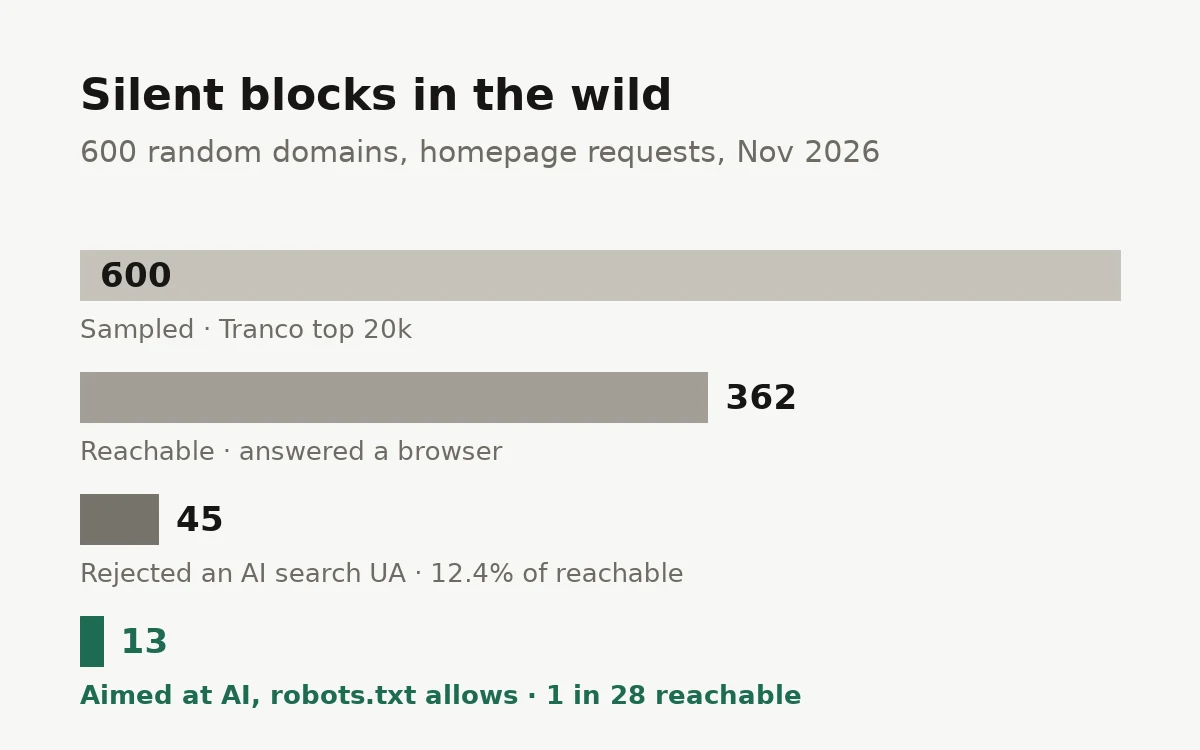
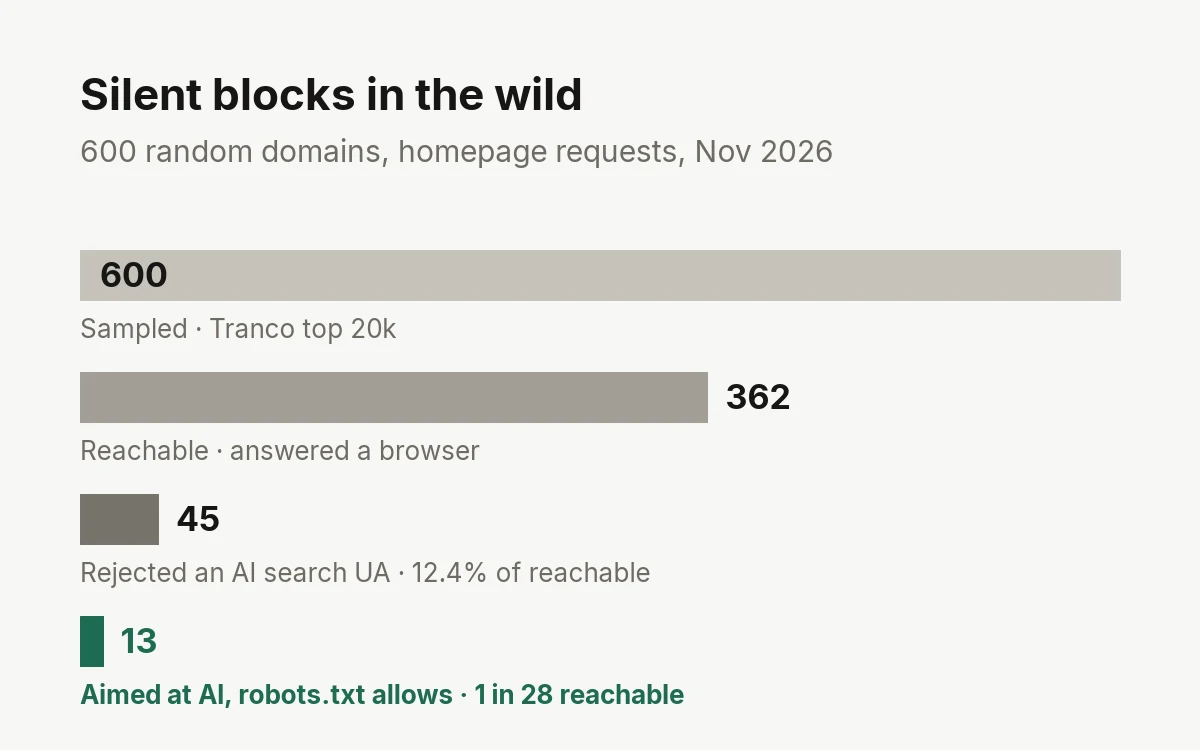
figs + report art: Inter / JetBrains Mono instead of DejaVu

diff --git a/scripts/report-art/render.py b/scripts/report-art/render.py
@@ -18,8 +18,8 @@ def panel():
     chips = "".join(f"<span class='{'ok' if v else 'no'}'><i></i>{n}</span>" for n, v in ctrl)
     return f"<div class='pn'><p class='ph mono'><span>AGENT</span><span>ROBOTS.TXT</span><span>HTTP</span></p><table>{rows}</table><p class='cg mono'>CONTROLS</p><div class='chips'>{chips}</div></div>"
 CSS = """*{box-sizing:border-box;margin:0;padding:0}
-body{background:#fbfbf9;color:#171614;font-family:'DejaVu Sans',sans-serif;-webkit-font-smoothing:antialiased}
-.mono{font-family:'DejaVu Sans Mono',monospace}.serif{font-family:'C059',serif}
+body{background:#fbfbf9;color:#171614;font-family:'Inter',sans-serif;-webkit-font-smoothing:antialiased}
+.mono{font-family:'JetBrains Mono',monospace}.serif{font-family:'C059',serif}
 .g{color:#1f8a4c}.mut{color:#6f6b64}
 .top{display:flex;justify-content:space-between;align-items:flex-end;padding-bottom:22px;border-bottom:1px solid #d9d7d1}
 .top svg{height:22px;width:auto}
@@ -31,10 +31,10 @@ body{{width:724px;height:543px;padding:46px 60px 40px}}
 .mid .l{{flex:1}}
 h1{{font-weight:400;font-size:30px;line-height:1.08;letter-spacing:.005em;text-transform:uppercase}}
 .site{{font-size:13px;letter-spacing:.08em;margin:14px 0 22px}}
-.by{{font-style:italic;font-size:12.5px;line-height:1.75;font-family:'DejaVu Sans'}}
+.by{{font-style:italic;font-size:12.5px;line-height:1.75;font-family:'Inter'}}
 .pn{{width:300px;border:1px solid #d9d7d1;background:#fff;padding:12px 14px 12px;font-size:11px}}
 .ph{{display:grid;grid-template-columns:1fr 70px 34px;font-size:8.5px;letter-spacing:.1em;color:#8a867e;padding-bottom:6px;border-bottom:1px solid #e4e2dc}}.ph span:last-child{{text-align:right}}
-.pn table{{width:100%;border-collapse:collapse}}.pn td{{padding:4.6px 0;border-bottom:1px solid #f0eee9;font-family:'DejaVu Sans Mono';font-size:10.5px}}
+.pn table{{width:100%;border-collapse:collapse}}.pn td{{padding:4.6px 0;border-bottom:1px solid #f0eee9;font-family:'JetBrains Mono';font-size:10.5px}}
 .pn td.r{{width:70px;color:#8a867e;font-size:9.5px}}.pn td.s{{width:34px;text-align:right;font-weight:700}}
 .ok{{color:#1f8a4c}}.no{{color:#b23b2e}}
 .cg{{font-size:8.5px;letter-spacing:.1em;color:#8a867e;margin:9px 0 6px}}
@@ -43,7 +43,7 @@ h1{{font-weight:400;font-size:30px;line-height:1.08;letter-spacing:.005em;text-t
 .c{{font-size:11px;letter-spacing:.12em;margin:4px 0 12px}}
 .toc{{display:grid;grid-template-columns:repeat(4,1fr);border-top:1px solid #d9d7d1;padding-top:14px}}
 .toc div{{padding:0 0 0 16px;border-left:1px solid #d9d7d1;font-size:13px}}.toc div:first-child{{border:0;padding-left:0}}
-.toc b{{display:block;font-family:'DejaVu Sans Mono';font-weight:400;font-size:21px;color:#1f8a4c;margin-bottom:6px}}
+.toc b{{display:block;font-family:'JetBrains Mono';font-weight:400;font-size:21px;color:#1f8a4c;margin-bottom:6px}}
 </style></head><body>
 <div class="top">{logo}<span class="mono">ACCESS REPORT&nbsp;&nbsp;&nbsp;<span class="g">11 / 2026</span></span></div>
 <div class="mid"><div class="l"><h1 class="serif">AI crawler<br>access report</h1><p class="site mono mut">{d['domain'].upper()}</p><p class="by">Prepared by VAKSEL<br>November 3, 2026</p></div>{panel()}</div>
@@ -61,11 +61,11 @@ p{{font-size:13.5px;line-height:1.65;color:#3d3a35}}
 .v{{display:flex;gap:28px;margin-top:18px}}.v div{{flex:1;border-top:2px solid #171614;padding-top:10px}}
 .v b{{display:block;font-size:30px;font-weight:600;letter-spacing:-.02em}}.v span{{font-size:11.5px;color:#6f6b64}}
 table{{width:100%;border-collapse:collapse;font-size:12.5px;margin-top:6px}}
-th{{text-align:left;font-weight:400;font-family:'DejaVu Sans Mono';font-size:10.5px;letter-spacing:.08em;color:#8a867e;padding:8px 0;border-bottom:1px solid #d9d7d1}}
+th{{text-align:left;font-weight:400;font-family:'JetBrains Mono';font-size:10.5px;letter-spacing:.08em;color:#8a867e;padding:8px 0;border-bottom:1px solid #d9d7d1}}
 td{{padding:10px 0;border-bottom:1px solid #eceae5;vertical-align:top}}
 td span{{display:block;color:#8a867e;font-size:11px;margin-top:2px}}
-td.ok{{color:#1f8a4c;font-family:'DejaVu Sans Mono'}}td.no{{color:#b23b2e;font-family:'DejaVu Sans Mono'}}
-.fix{{font-family:'DejaVu Sans Mono';font-size:12px;background:#f1f0ec;padding:16px 18px;line-height:1.9;margin-top:14px}}
+td.ok{{color:#1f8a4c;font-family:'JetBrains Mono'}}td.no{{color:#b23b2e;font-family:'JetBrains Mono'}}
+.fix{{font-family:'JetBrains Mono';font-size:12px;background:#f1f0ec;padding:16px 18px;line-height:1.9;margin-top:14px}}
 </style></head><body>
 <div class="top">{logo}<span class="mono">{d['domain'].upper()}&nbsp;&nbsp;&nbsp;<span class="g">11 / 2026</span></span></div>
 <div class="sec"><p class="n mono">01 · VERDICT</p><h2 class="serif">Silent block</h2>

diff --git a/scripts/figs.py b/scripts/figs.py
@@ -20,7 +20,7 @@ BG = "#f7f7f5"; INK = "#171614"; MUT = "#6f6b64"; FAINT = "#a8a59e"
 G1 = "#c4c2bb"; G2 = "#a19e96"; G3 = "#77736b"; GRID = "#e6e4df"
 GREEN = "#1e6b52"; GREENBG = "#e3eee9"
 W = 2400
-plt.rcParams.update({"font.family": "DejaVu Sans", "text.color": INK})
+plt.rcParams.update({"font.family": "Inter", "text.color": INK})
 
 
 def canvas(h):
@@ -156,7 +156,7 @@ def fig_sample():
         ax.add_patch(Rectangle((x0, y), w, hh, facecolor=GREENBG if hi else BG,
                                edgecolor=GREEN if hi else "#d6d3cc", lw=2.5 if hi else 2,
                                ls=(0, (6, 5)) if dashed else "-", zorder=2))
-        T(ax, cx, y + 40, eyebrow, 17, GREEN if hi else FAINT, ha="center", zorder=3, fontfamily="DejaVu Sans")
+        T(ax, cx, y + 40, eyebrow, 17, GREEN if hi else FAINT, ha="center", zorder=3, fontfamily="Inter")
         T(ax, cx, y + 86, title, 30, GREEN if hi else INK, weight="bold", ha="center", zorder=3)
         for j, m in enumerate(meta if isinstance(meta, list) else [meta]):
             T(ax, cx, y + 122 + j * 30, m, 20, MUT, ha="center", zorder=3)
